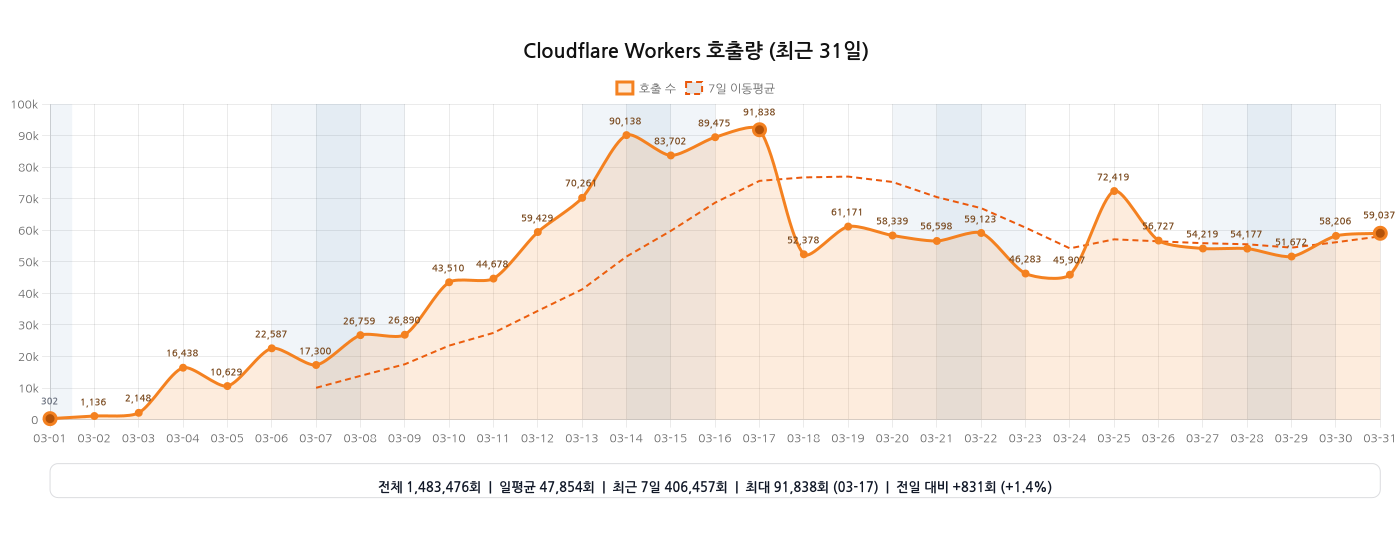
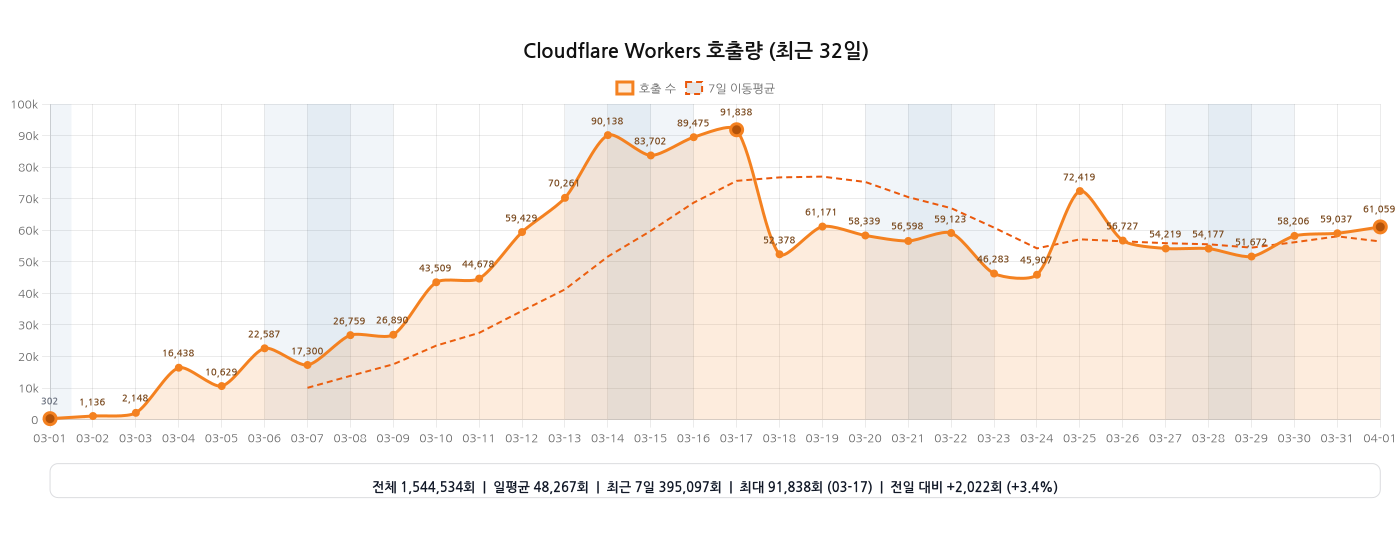
chore: 워커 호출량 그래프 자동 갱신

diff --git a/README.md b/README.md
@@ -18,11 +18,11 @@
 [![Coverage](https://github.com/hmmhmmhm/daiso-mcp/actions/workflows/coverage.yml/badge.svg?branch=main)](https://github.com/hmmhmmhm/daiso-mcp/actions/workflows/coverage.yml)
 
 <!-- WORKERS_INVOCATIONS_CHART:START -->
-<h3>Cloudflare Workers 호출량 (2026-03-01 ~ 2026-03-31, 31일)</h3>
+<h3>Cloudflare Workers 호출량 (2026-03-01 ~ 2026-04-01, 32일)</h3>
 
-<img src="./assets/analytics/workers-invocations.png?v=2026-03-31T15:48:31.057Z" alt="Cloudflare Workers 호출량 그래프 (2026-03-01 ~ 2026-03-31)" width="100%">
+<img src="./assets/analytics/workers-invocations.png?v=2026-04-01T15:50:55.274Z" alt="Cloudflare Workers 호출량 그래프 (2026-03-01 ~ 2026-04-01)" width="100%">
 
-<sub>기준 워커: <code>daiso-mcp</code> · 마지막 갱신: 2026-04-01 00:48 KST</sub>
+<sub>기준 워커: <code>daiso-mcp</code> · 마지막 갱신: 2026-04-02 00:50 KST</sub>
 
 <!-- WORKERS_INVOCATIONS_CHART:END -->
 
